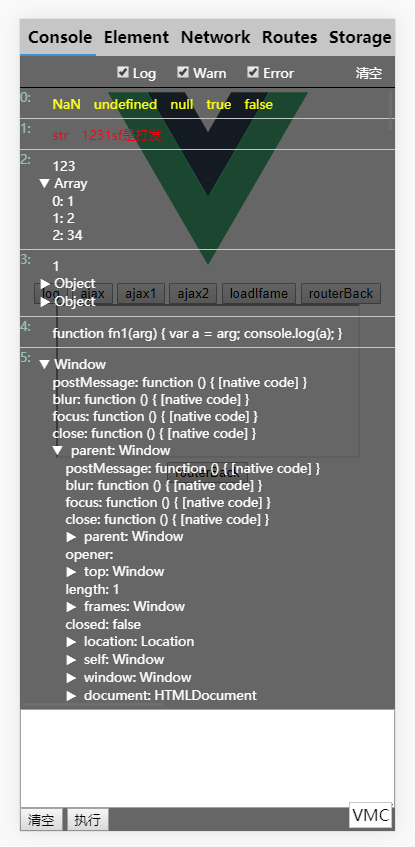
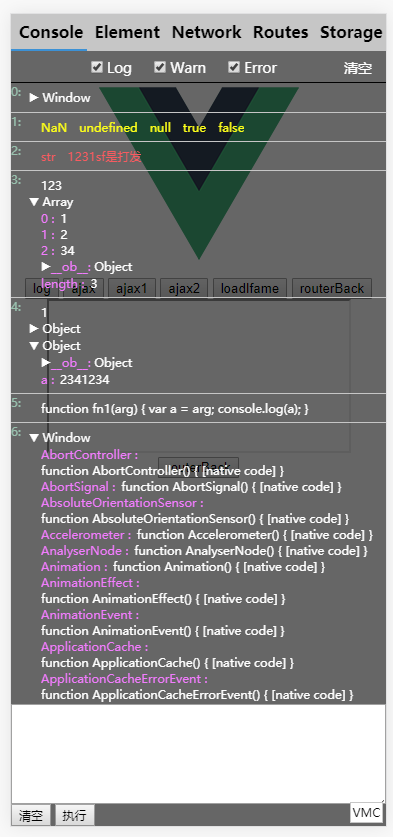
修复bug

diff --git a/vmc/tabs/console/VMCObjLog.vue b/vmc/tabs/console/VMCObjLog.vue
@@ -3,15 +3,19 @@
 -->
 <template lang="html"> 
 <section class="_vmc_ObjLog" v-if="objVal" > 
-  <div class="_vmc_objItm" v-for="(itm,key) in objVal" > 
-    <div v-if="objValCheck(itm)===true" class="_vcm_obj_obj">
-      <div class="_vmc_obj_objKey" @click="showObjKeys(key)"> 
-        <span class="_vmc_objTlIcon" :data-rotate="isShowMap[key]">▶</span> 
-        {{key}}: {{Object.prototype.toString.call(itm).slice(8,-1)}} 
+  <div class="_vmc_objItm" v-for="(prop,idx) in objMap" > 
+    <div v-if="objValCheck(prop)==='待处理'" class="_vcm_obj_obj">
+      <div class="_vmc_obj_objKey ft0" @click="showObjKeys(prop)"> 
+        <span class="_vmc_objTlIcon" :data-rotate="showMap[prop+'--']">▶</span> 
+        <span class="color1"> {{prop}}: </span>
+        <span> {{dealObjType(prop)}} </span>
       </div>
-      <VMCObjLog v-if="isShowMap[key]" :objVal="itm" ></VMCObjLog>
+      <VMCObjLog v-if="showMap[prop+'--']" :objVal="objVal[prop]" ></VMCObjLog>
     </div>
-    <div v-else class="_vcm_obj_prop"> {{key}}: {{itm}}</div>
+    <div v-else-if="objValCheck(prop)!=='删除'" class="_vcm_obj_prop ft0"> 
+      <span class="_vcm_obj_prop_key color1">{{prop}} :</span>
+      <span> {{objValCheck(prop)}} </span>
+    </div>
   </div>
 </section> 
 </template> 
@@ -26,13 +30,26 @@ export default {
   },
   data(){
     let _map = {}
-    for(var key in this.objVal){ _map[key] = false; };
+    Object.getOwnPropertyNames(this.objVal).forEach( prop=>{
+      _map[prop+'--'] = false; // 解决bug: prop和vue自定义的属性冲突
+    })
     return {
-      isShowMap: _map, 
+      showMap: _map, 
     }
   },
+  computed: {
+    objMap(){
+      return Object.getOwnPropertyNames(this.objVal).sort( (itm1,itm2)=>{
+        return itm1>itm2 ? 1 : -1;
+      })
+    },
+  },
   methods: {
-    objValCheck(val){
+    objValCheck(prop){
+      let val = '';
+      try { val = this.objVal[prop]; } 
+      catch (e) { return '删除' } 
+      
       if ( val===undefined ) { return 'undefined'; }
       else if ( val===null ) { return 'null'; }
       else if ( typeof val==='number' ) { return val+''; }
@@ -40,24 +57,42 @@ export default {
       else if ( typeof val==='boolean' ) { return val+''; }
       else if ( typeof val==='function' ) { return val.toString(); }
       
-      return true;
+      return '待处理';
     },
-    showObjKeys(key){
-      this.isShowMap[key]= !this.isShowMap[key];
+    dealObjType(prop){
+      try {
+        return Object.prototype.toString.call(this.objVal[prop]).slice(8,-1);
+      } 
+      catch (e) {
+        return 'todo'
+      } 
+    },
+    showObjKeys(prop){
+      this.showMap[prop+'--']= !this.showMap[prop+'--'];
     },
   },
 };
 </script> 
 
 <style scoped> 
+  .color1 { color: #f687ff; }
   ._vmc_ObjLog {
     margin-left: 1em;
+  }
+  ._vcm_obj_prop {
+    /* margin-left: 10px;
+    text-indent: -10px; */
+    word-break: break-all;
+    display: flex;
+    flex-wrap: wrap;
+  }
+  ._vcm_obj_prop_key {
+    margin-right: 0.5em;
   }
   ._vmc_objTlIcon[data-rotate] {
     display: inline-block;
     transform: rotate(90deg);
   }
-
 </style> 
 <style > 
 </style> 

diff --git a/vmc/tabs/console/index.vue b/vmc/tabs/console/index.vue
@@ -89,7 +89,7 @@ export default {
   
   /* .log { color: #2ab7fc; } */
   ._vmc_warn { color: yellow; }
-  ._vmc_error { color: red; }
+  ._vmc_error { color: #fe6868; }
 </style> 
 <style > 
 </style> 

diff --git a/doc/todo.js b/doc/todo.js
@@ -24,7 +24,7 @@ Network
 Routes 
   打印路径变化 [localStorage固化] 
 Storage 
-  Vuex store 
+  Vuex store 完善 getters 
 */
 
 

diff --git a/vmc/styles/style.css b/vmc/styles/style.css
@@ -15,7 +15,7 @@
   font-size: 0;
 }
 ._vmc_ .colorRed {
-  color: red;
+  color: #f66565;
 }
 ._vmc_ .colorMain {
   color: #2ab7fc;

diff --git a/readme.md b/readme.md
@@ -1,5 +1,5 @@
 <h1>VMConsole</h1>
-<h1>Vue Mobile Console: Vue项目的移动端调试控制台</h1>
+<h1>Vue Mobile Console: Vue项目移动端调试工具</h1>
 
 
 安装: 
